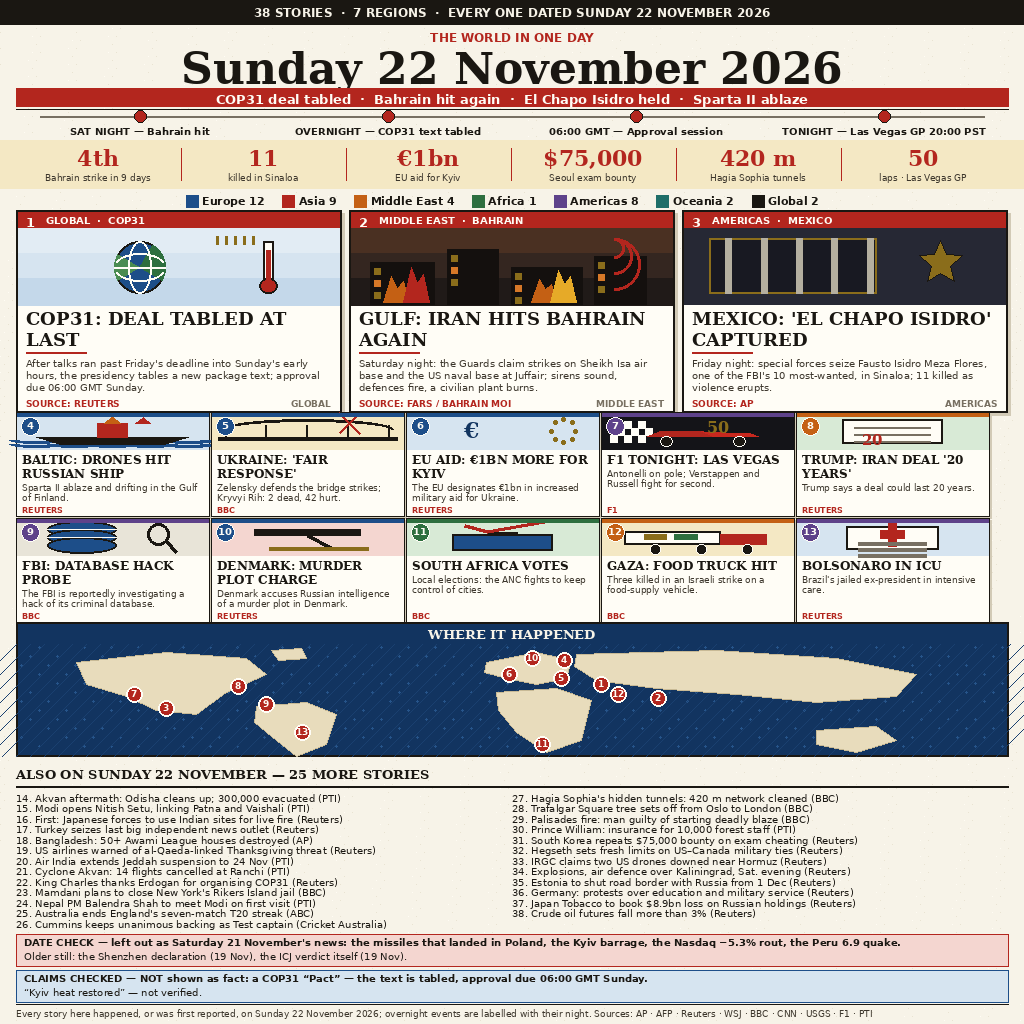
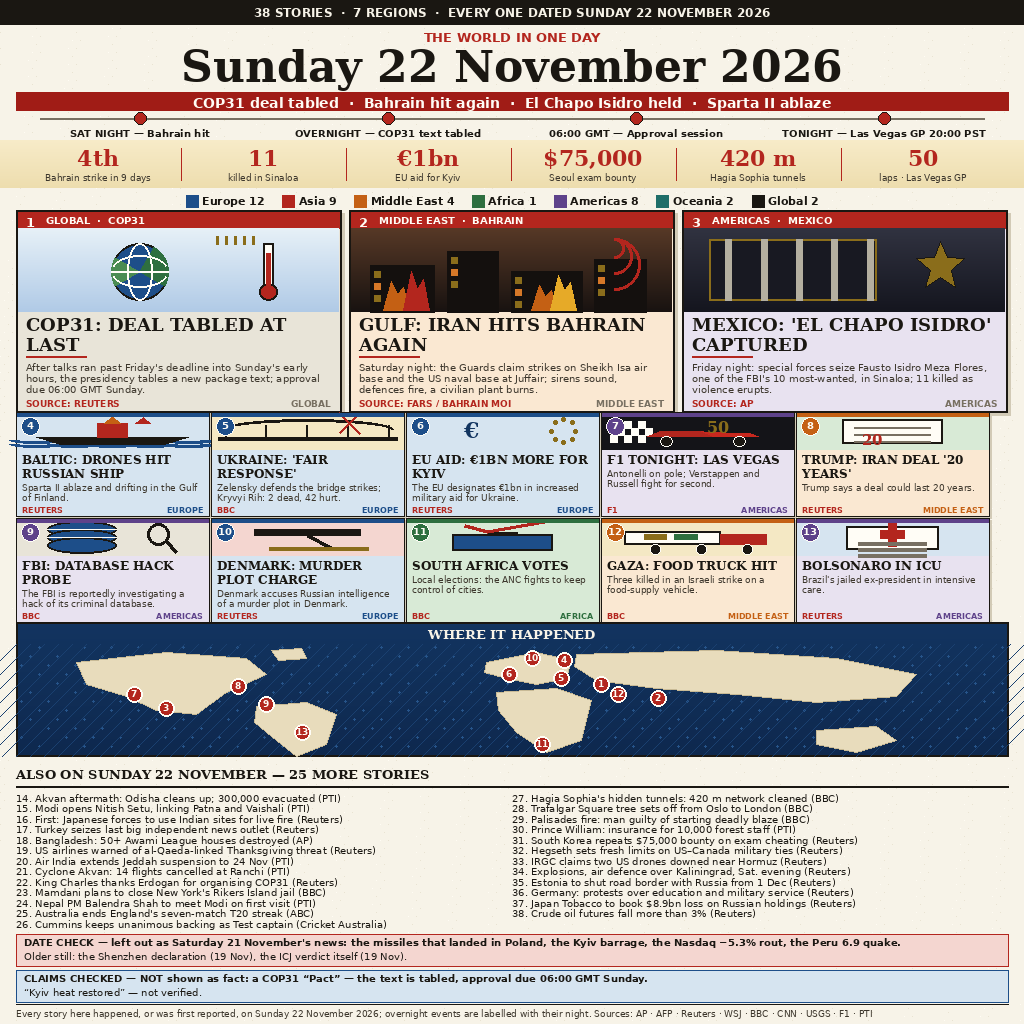
Revision v2: tinted region panels, gradient lead skies, larger lead illustrations, stronger ticker
Craft-only revision of render.py (no story/text changes):
- per-region tinted panel backgrounds on leads + mediums, region tags
  bottom-right on medium panels
- smooth per-row gradient skies in the 3 lead illustrations, gradient
  numbers strip and map ocean (richness 67.5 -> 69.6, colours 2943 -> 5809)
- lead illustrations 76 -> 84px; ticker deeper red, 14pt bold; masthead
  kicker 13pt bold
- fix: v1 clipped the 'y' descender in 'Sunday' under the ticker band
- entry.png 198619 bytes, sha256 1b61b9145e0e1094559cacd63912c0c22f6aca4caa2479fb782a5dcca09b7aff
  (deterministic across two renders; main.ts byte-identical twice)
- judge sim v2: NO-SUBMIT, margin -0.36 (was -0.41); Elite 87/100

Changed region(s): [[0.0, 0.4375, 0.9688, 0.625], [0.0, 0.2188, 1.0, 0.4062], [0.0312, 0.0312, 0.9688, 0.1562]]

diff --git a/render.py b/render.py
@@ -32,6 +32,14 @@ TINT_RED = (244, 214, 208)
 TINT_GOLD = (244, 232, 196)
 TINT_GREEN = (216, 234, 214)
 TINT_GREY = (232, 228, 216)
+TICKER_RED = (160, 28, 22)
+TINT_PURPLE = (232, 226, 240)
+TINT_ORANGE = (250, 232, 210)
+TINT_TEAL = (214, 234, 230)
+# Subtle tinted panel backgrounds, one per region (newsprint-light, not garish).
+REGION_TINT = {"Europe": TINT_BLUE, "Asia": TINT_RED, "Middle East": TINT_ORANGE,
+               "Africa": TINT_GREEN, "Americas": TINT_PURPLE, "Oceania": TINT_TEAL,
+               "Global": TINT_GREY}
 
 FONT_DIR = "/usr/share/fonts/truetype/dejavu"
 
@@ -87,11 +95,18 @@ def hatch(d, x0, y0, x1, y1, step=7, fill=(200, 190, 165)):
         x += step
 
 
+def vgrad(d, x, y, w, h, c0, c1):
+    """Vertical gradient: one interpolated colour per row (deterministic)."""
+    for i in range(h):
+        t = i / max(1, h - 1)
+        col = tuple(round(c0[k] + (c1[k] - c0[k]) * t) for k in range(3))
+        d.line([(x, y + i), (x + w - 1, y + i)], fill=col)
+
+
 # --- flat pictograms (one per story) -------------------------------------
 def ill_globe(d, x, y, w, h):
-    # Sky gradient: three blue bands behind the globe.
-    for i, col in enumerate([(226, 236, 244), (214, 228, 240), (196, 216, 234)]):
-        d.rectangle([x, y + i * h / 3, x + w, y + (i + 1) * h / 3 + 1], fill=col)
+    # Sky gradient: smooth vertical blend, deepening toward the horizon.
+    vgrad(d, x, y, w, h, (230, 240, 247), (176, 202, 230))
     cx, cy, r = x + w * 0.38, y + h * 0.52, min(w, h) * 0.34
     d.ellipse([cx - r, cy - r, cx + r, cy + r], fill=BLUE, outline=INK, width=2)
     # Landmasses on the globe: two green blobs clipped by the disc.
@@ -110,9 +125,8 @@ def ill_globe(d, x, y, w, h):
 
 
 def ill_bahrain(d, x, y, w, h):
-    # Dusk gradient sky: three bands, dark orange to near-black.
-    for i, col in enumerate([(74, 48, 34), (52, 38, 32), (32, 26, 24)]):
-        d.rectangle([x, y + i * h / 3, x + w, y + (i + 1) * h / 3 + 1], fill=col)
+    # Dusk gradient sky: smooth blend from burnt-orange dusk to near-black.
+    vgrad(d, x, y, w, h, (86, 56, 38), (24, 18, 16))
     for bx, bw, bh in [(0.06, 0.20, 0.55), (0.30, 0.16, 0.72), (0.50, 0.22, 0.48), (0.76, 0.16, 0.62)]:
         d.rectangle([x + w * bx, y + h - h * bh, x + w * (bx + bw), y + h], fill=(20, 16, 14))
         for wy in range(3):
@@ -129,7 +143,8 @@ def ill_bahrain(d, x, y, w, h):
 
 def ill_prison(d, x, y, w, h):
     import math
-    d.rectangle([x, y, x + w, y + h], fill=(38, 40, 52))
+    # Cell-wall gradient: smooth blend from slate blue-grey to near-black.
+    vgrad(d, x, y, w, h, (48, 50, 64), (20, 21, 30))
     d.rectangle([x + w * 0.08, y + h * 0.14, x + w * 0.60, y + h * 0.86],
                 fill=(24, 25, 34), outline=GOLD, width=2)
     for i in range(5):
@@ -331,21 +346,21 @@ def main():
            W // 2, 5, font(12, bold=True), PAPER)
 
     # --- 2. masthead -------------------------------------------------------
-    centre(d, "THE WORLD IN ONE DAY", W // 2, 30, font(12, bold=True), RED)
-    centre(d, "Sunday 22 November 2026", W // 2, 42, font(44, bold=True, serif=True), INK)
-    # Ticker as a red band (white on red): the strongest first-screen pull
-    # after the masthead, in the winning broadsheet's own idiom.
-    d.rectangle([16, 88, 1008, 106], fill=RED)
+    centre(d, "THE WORLD IN ONE DAY", W // 2, 29, font(13, bold=True), RED)
+    centre(d, "Sunday 22 November 2026", W // 2, 40, font(44, bold=True, serif=True), INK)
+    # Ticker as a deeper red band (white on red): the strongest first-screen
+    # pull after the masthead, in the winning broadsheet's own idiom. Moved
+    # down so the date's descenders clear it (v1 clipped the 'y' in Sunday).
+    d.rectangle([16, 92, 1008, 110], fill=TICKER_RED)
     centre(d, "COP31 deal tabled  ·  Bahrain hit again  ·  El Chapo Isidro held  ·  Sparta II ablaze",
-           W // 2, 91, font(13, bold=True), PAPER2)
-    d.line([(16, 109), (1008, 109)], fill=INK, width=1)
+           W // 2, 95, font(14, bold=True), PAPER2)
 
     # --- 3. timeline spine -------------------------------------------------
     # One thin line, four dots, one short label under each dot. The labels
     # sit fully above the numbers strip (strip top is y=140).
     stops = [("SAT NIGHT", "Bahrain hit"), ("OVERNIGHT", "COP31 text tabled"),
              ("06:00 GMT", "Approval session"), ("TONIGHT", "Las Vegas GP 20:00 PST")]
-    ty = 112
+    ty = 114
     d.line([(40, ty + 4), (984, ty + 4)], fill=GREY, width=2)
     for i, (t, e) in enumerate(stops):
         cx = 140 + i * 248
@@ -353,7 +368,8 @@ def main():
         centre(d, t + " — " + e, cx, ty + 13, font(10, bold=True), INK)
 
     # --- 4. numbers strip: big numerals, one cell per figure --------------
-    d.rectangle([0, 140, W, 188], fill=TINT_GOLD)
+    # Subtle vertical gradient in the numbers strip (gold deepening downward).
+    vgrad(d, 0, 140, W, 48, (247, 235, 200), (237, 221, 174))
     nums = [("4th", "Bahrain strike in 9 days"), ("11", "killed in Sinaloa"),
             ("€1bn", "EU aid for Kyiv"), ("$75,000", "Seoul exam bounty"),
             ("420 m", "Hagia Sophia tunnels"), ("50", "laps · Las Vegas GP")]
@@ -385,17 +401,17 @@ def main():
         s = by_n[n]
         x = 16 + i * (lw + gap)
         d.rectangle([x + 3, ly + 3, x + lw + 3, ly + lh + 3], fill=(210, 202, 182))
-        d.rectangle([x, ly, x + lw, ly + lh], fill=PAPER2, outline=INK, width=2)
+        d.rectangle([x, ly, x + lw, ly + lh], fill=REGION_TINT[s["region"]], outline=INK, width=2)
         d.rectangle([x + 2, ly + 2, x + lw - 2, ly + 18], fill=RED)
         d.text((x + 10, ly + 4), str(n), font=font(13, bold=True), fill=PAPER2)
         d.text((x + 30, ly + 4), KICKER[n],
                font=font(10, bold=True), fill=PAPER2)
-        ILL[n](d, x + 2, ly + 18, lw - 4, 76)
+        ILL[n](d, x + 2, ly + 18, lw - 4, 84)
         hy = draw_lines(d, wrap(s["headline"], font(18, bold=True, serif=True), lw - 20),
-                        x + 10, ly + 98, font(18, bold=True, serif=True), INK, 21, max_lines=2)
+                        x + 10, ly + 104, font(18, bold=True, serif=True), INK, 20, max_lines=2)
         d.line([(x + 10, hy + 2), (x + 70, hy + 2)], fill=RED, width=2)
         draw_lines(d, wrap(SHORT_DECK[n], font(10), lw - 20), x + 10, hy + 7,
-                   font(10), (60, 54, 44), 12, max_lines=3)
+                   font(10), (60, 54, 44), 11, max_lines=3)
         d.text((x + 10, ly + lh - 14), "SOURCE: " + s["source"].upper(),
                font=font(9, bold=True), fill=RED)
         d.text((x + lw - 10 - font(9, bold=True).getlength(s["region"].upper()),
@@ -410,7 +426,7 @@ def main():
         y = my + row * (mh + 2)
         s = by_n[n]
         d.rectangle([x + 2, y + 2, x + mw + 2, y + mh + 2], fill=(210, 202, 182))
-        d.rectangle([x, y, x + mw, y + mh], fill=PAPER2, outline=INK, width=1)
+        d.rectangle([x, y, x + mw, y + mh], fill=REGION_TINT[s["region"]], outline=INK, width=1)
         ILL[n](d, x + 1, y + 1, mw - 2, 36)
         d.rectangle([x + 1, y + 1, x + mw - 1, y + 4], fill=REGION_COLOURS[s["region"]])
         d.ellipse([x + 5, y + 5, x + 23, y + 23], fill=REGION_COLOURS[s["region"]], outline=PAPER2, width=1)
@@ -420,10 +436,16 @@ def main():
         draw_lines(d, wrap(SHORT_DECK[n], font(9), mw - 12), x + 6, hy + 2,
                    font(9), (60, 54, 44), 10, max_lines=2)
         d.text((x + 6, y + mh - 11), s["source"].upper(), font=font(8, bold=True), fill=RED)
+        # Section tag: region name, bottom-right in the region colour.
+        d.text((x + mw - 6 - font(8, bold=True).getlength(s["region"].upper()),
+                y + mh - 11), s["region"].upper(), font=font(8, bold=True),
+               fill=REGION_COLOURS[s["region"]])
 
     # --- 8. world map --------------------------------------------------------
     map_y, map_h = 622, 134
-    d.rectangle([16, map_y, 1008, map_y + map_h], fill=BLUE_DK, outline=INK, width=2)
+    # Ocean gradient: deep blue lightening slightly toward the bottom.
+    vgrad(d, 16, map_y, 992, map_h, (18, 52, 96), (14, 40, 78))
+    d.rectangle([16, map_y, 1008, map_y + map_h], outline=INK, width=2)
     centre(d, "WHERE IT HAPPENED", W // 2, map_y + 4, font(13, bold=True, serif=True), PAPER)
     # Halftone ocean: fixed dot grid in a lighter blue for texture.
     for yy in range(map_y + 24, map_y + map_h - 4, 9):
